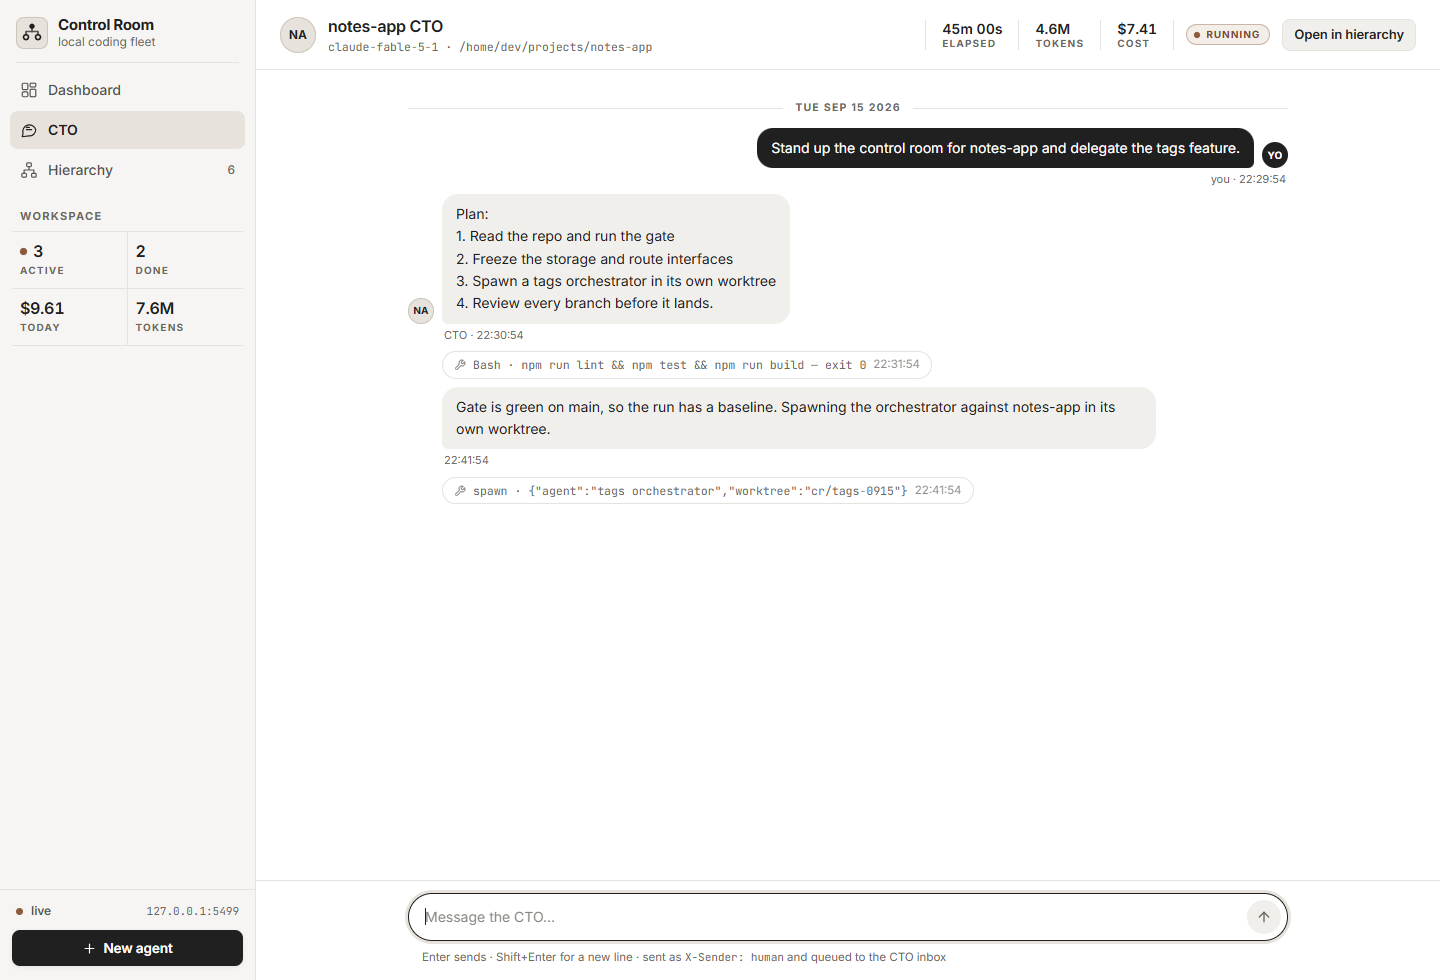
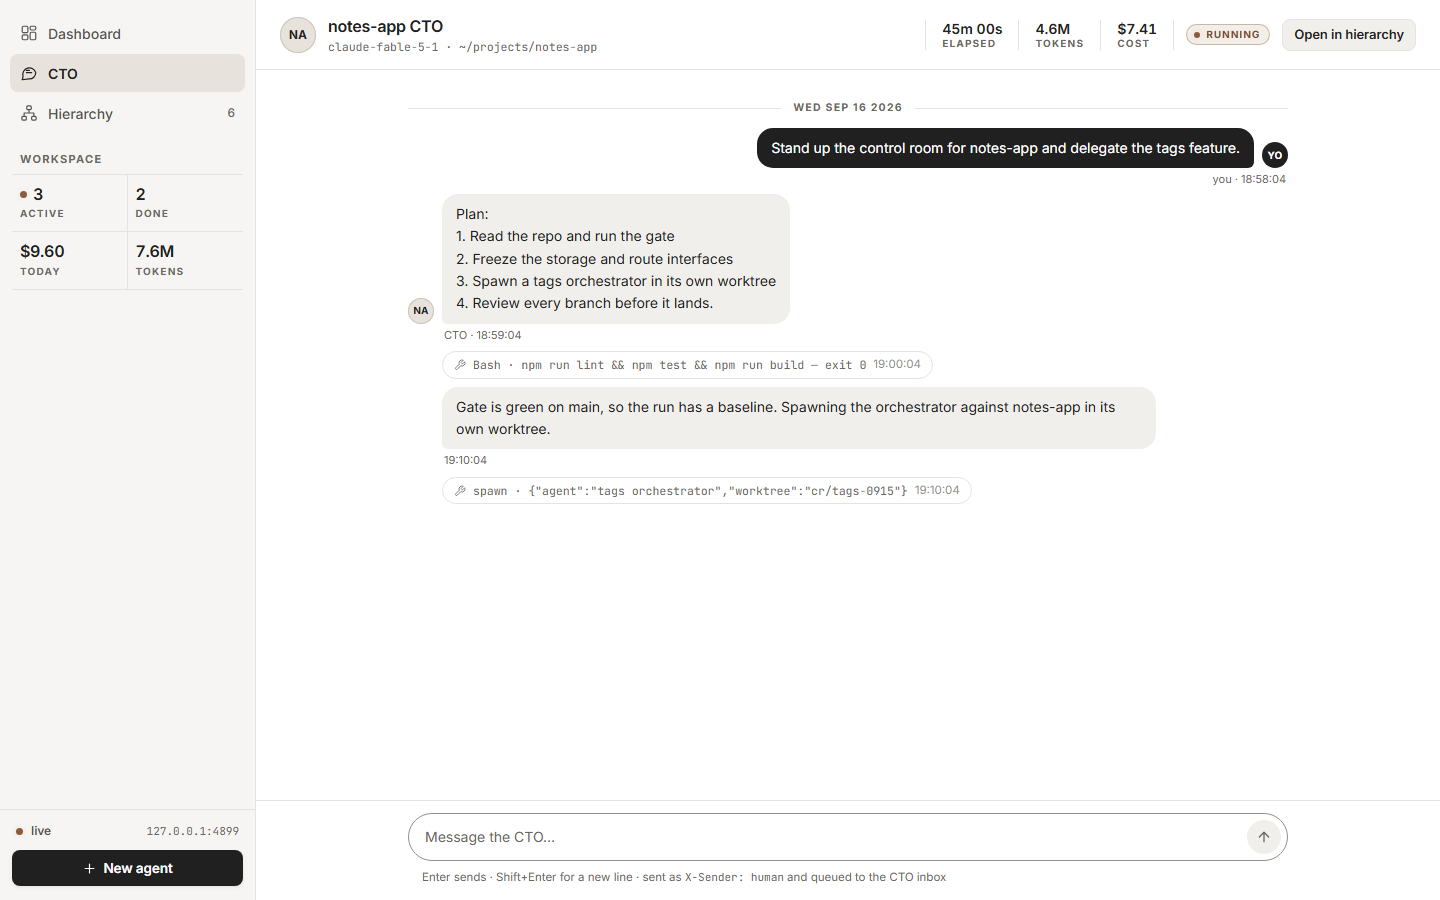
Refresh README screenshots at 1440 wide and add the first-run page
Captured with headless Chrome against `npm start` on a scratch port with an
empty data directory: dashboard, hierarchy and CTO chat from the in-page
mock (?mock=1), first-run from ?mock=1&empty=1 so no local path appears.

diff --git a/README.md b/README.md
@@ -99,6 +99,11 @@ reports folded into the same thread.
 
 ![Chat](docs/screenshots/cto.png)
 
+**First run** — what an empty database shows instead of a grid of zeroes: the
+two ways in, and every view has its own empty state.
+
+![First run](docs/screenshots/first-run.png)
+
 ---
 
 ## Quick start
